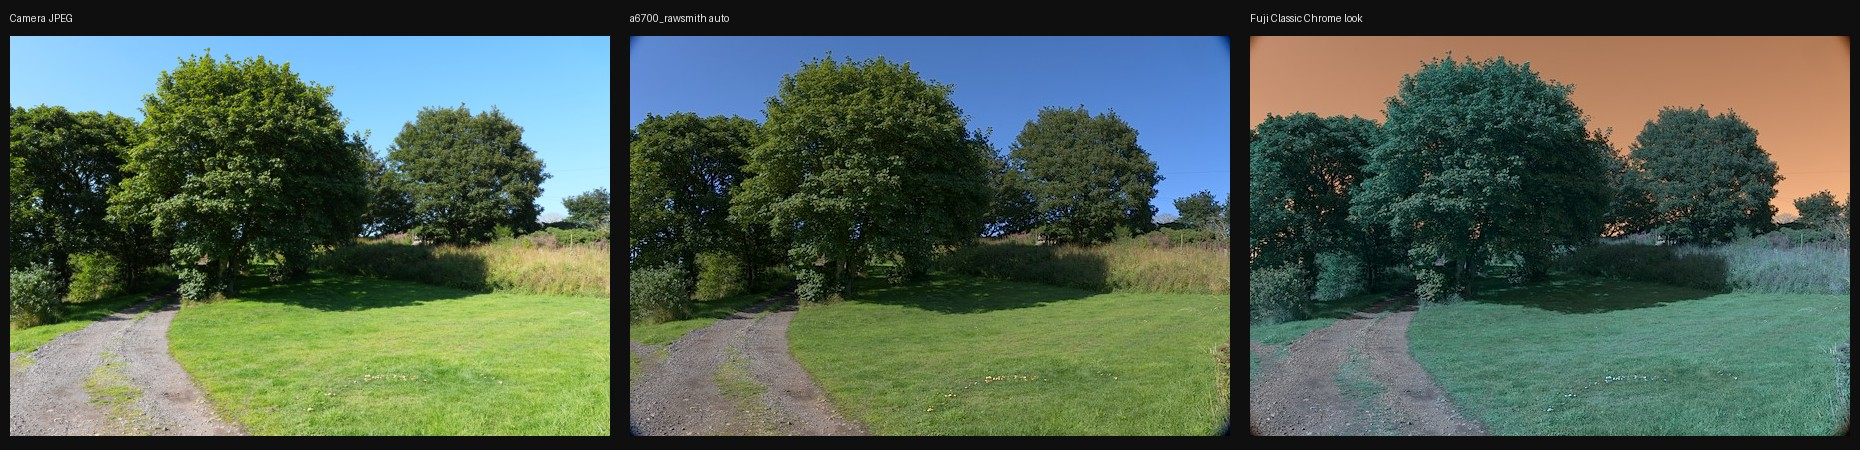
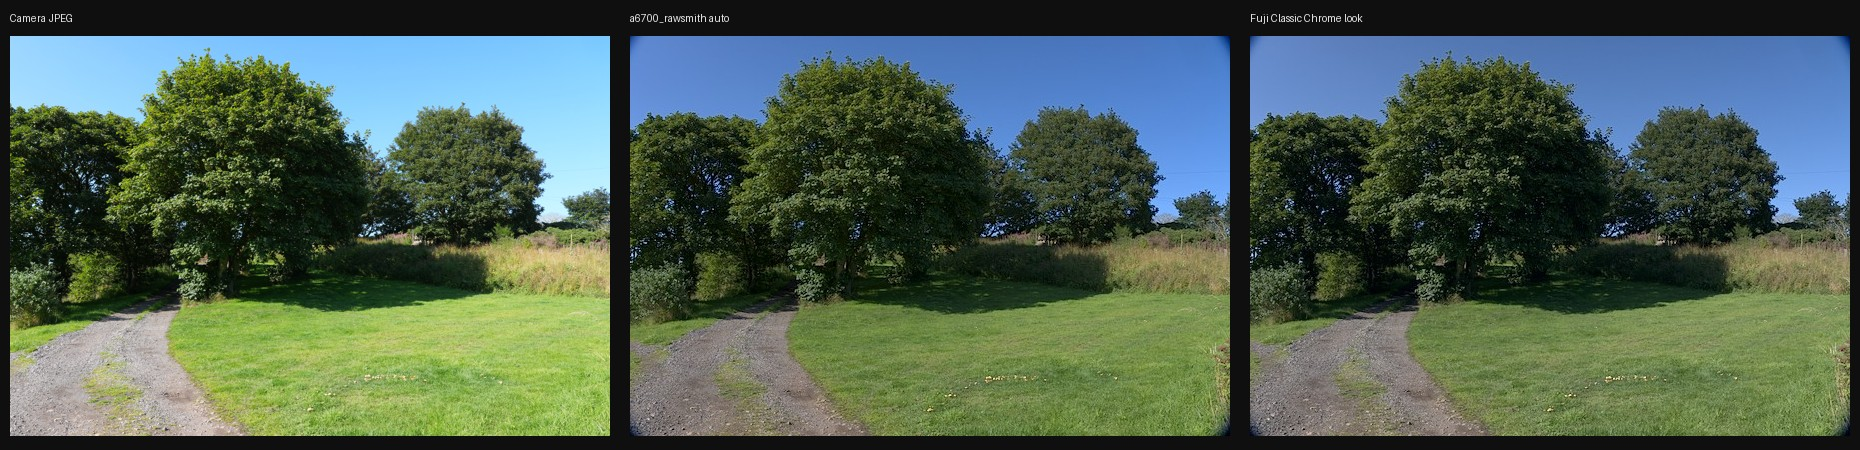
fix: correct .cube LUT axis order and apply LUT in sRGB space
The trilinear sampler indexed data[R,G,B] but .cube rows are stored with red
changing fastest, so the reshape produced a [B,G,R] layout. Identity LUTs are
symmetric and hid the bug; the Classic-Chrome look turned blue skies orange.
Transpose on load and add an asymmetric R/G-swap probe test. Also move LUT
application after the linear->sRGB encode, which is the space .cube LUTs are
authored in.

Changed region(s): [[0.6548, 0.0622, 0.9978, 0.9956]]

diff --git a/tests/test_a6700_rawsmith.py b/tests/test_a6700_rawsmith.py
@@ -228,3 +228,26 @@ def test_real_arw_inspect_no_crash():
     white-balance as a list, not a dict (.items() raised AttributeError)."""
     result = develop(SAMPLE_ARW, {}, "/tmp/_real_inspect.jpg", size=400)
     assert isinstance(result.raw_metadata["daylight_whitebalance"], list)
+
+
+def test_lut_axis_order_asymmetric():
+    """A .cube that swaps R and G must map input [1,0,0] -> output [0,1,0].
+
+    Guards the [B,G,R] reshape vs data[R,G,B] indexing bug: an identity LUT is
+    symmetric and cannot catch it, so use an asymmetric one.
+    """
+    import numpy as np
+    from lut import apply_lut
+    N = 17
+    lines = ["LUT_3D_SIZE %d" % N]
+    for b in range(N):
+        for g in range(N):
+            for r in range(N):
+                lines.append("%.6f %.6f %.6f" % (g / (N - 1), r / (N - 1), b / (N - 1)))
+    with tempfile.TemporaryDirectory() as tmp:
+        p = os.path.join(tmp, "swap.cube")
+        with open(p, "w") as f:
+            f.write("\n".join(lines) + "\n")
+        out = apply_lut(np.array([[[1.0, 0.0, 0.0]]], dtype=np.float32), p,
+                        input_srgb=False, output_srgb=False)
+        assert abs(out[0, 0, 1] - 1.0) < 0.05 and abs(out[0, 0, 0]) < 0.05
